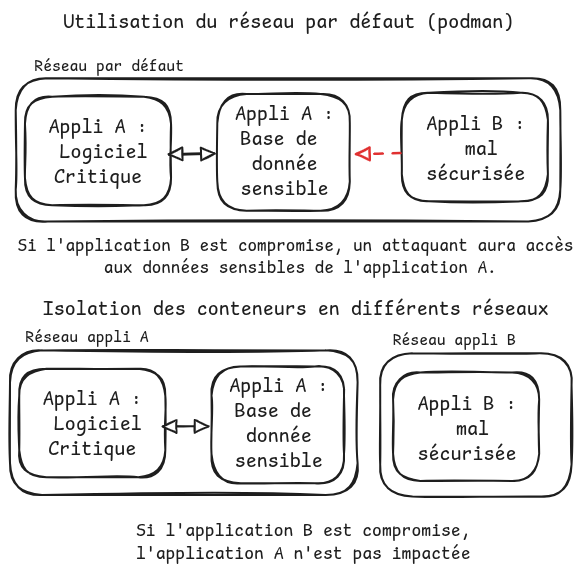
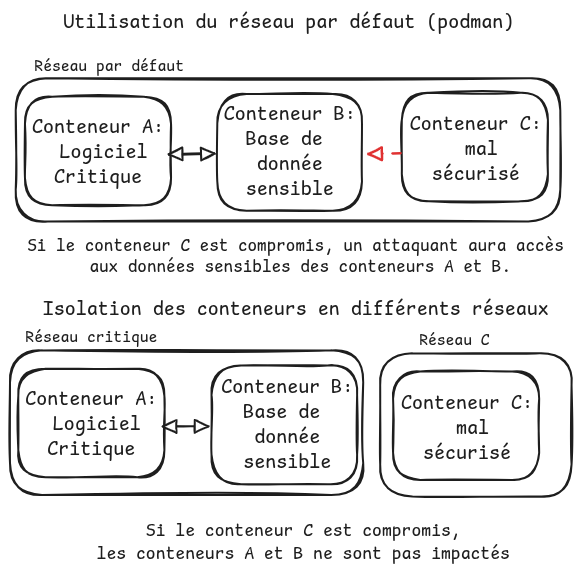
Updated TD3 (#5)
* Updated TD3 to add `docker-compose` notions
* Updated website code given advices from @PetchouDev

diff --git a/TD3-multi-containers/website/flask_minimal.py b/TD3-multi-containers/website/flask_minimal.py
@@ -7,19 +7,30 @@ import psycopg2
 app = Flask(__name__)
 
 app.logger.info("Connecting to postgres database")
-conn = psycopg2.connect(host="postgres",
-                        database="database",
+
+conn : psycopg2.connection = None
+
+
+def get_db_connection() -> psycopg2.connection:
+    global conn
+
+    conn = psycopg2.connect(host="postgres",
+                        database="postgres",
                         user="postgres",
                         password="admin")
+    
+    with conn.cursor() as cur:
+        # Create table stats if it does not exist
+        cur.execute('CREATE TABLE IF NOT EXISTS stats (id serial PRIMARY KEY,'
+                                        'username varchar (150) NOT NULL,'
+                                        'nb_query integer  NOT NULL)'
+                                        )
+        cur.execute("ALTER TABLE stats ADD CONSTRAINT stats_username_unique UNIQUE (username);")
+        cur.close()
+    conn.commit()
 
-cur = conn.cursor()
+    return conn
 
-# Create database if it does not exist
-cur.execute('CREATE TABLE stats (id serial PRIMARY KEY,'
-                                 'username varchar (150) NOT NULL,'
-                                 'nb_query integer  NOT NULL)'
-                                 )
-conn.commit()
 
 # Index page : just display a form asking for minecraft username
 @app.route("/")
@@ -31,6 +42,7 @@ def index():
                 <input type="text" id="fname" name="username"><br>
                 <input type="submit">
             </form>
+            <p><a href="admin_view"> Admin page </a></p>
             """
 
 # Display skin page : get the player head given it's username, and store the queried names in queried_name.json
@@ -65,18 +77,50 @@ def display_skin():
 # Display statistics about the number of username queried
 @app.route("/admin_view")
 def admin_view():
-    cur.execute('SELECT * FROM stats;')
-    stats = cur.fetchall()
+    conn = get_db_connection()
+    stats = None
+    with conn.cursor() as cur:
+        cur.execute('SELECT * FROM stats;')
+        stats = cur.fetchall()
     html_page = """<h2>Statistics for this website</h2>
                     <p>Number of query for each username</p>
                     <ul>
                 """
     for stat in stats:
-        html_page += f"<li>{stat[0]} : {stat[1]} queries</li>"
+        html_page += f"<li>{stat[1]} : {stat[2]} queries</li>"
     html_page += "</ul>"
     return html_page
 
 # Update the count of username
 def update_query_count(username) -> int:
-    cur.execute(f"""Update stats set nb_query = nb_query, 0 + 1 where username={username}""")
+    # Discard empty usernames
+    username = (username or "").strip()
+    if not username:
+        return 0
+
+    conn = get_db_connection()
+    stat_row = []
+    with conn.cursor() as cur:
+        cur.execute(
+            """
+            INSERT INTO stats (username, nb_query)
+            VALUES (%s, 1)
+            ON CONFLICT (username)
+            DO UPDATE SET nb_query = stats.nb_query + 1
+            RETURNING nb_query;
+            """,
+            (username,)
+        )
+        if cur.rowcount == 0:
+            print(f"[ERROR] No entries for username just updated : {username}")
+            return 0
+        if cur.rowcount > 1:
+            print(f"[WARNING] {cur.rowcount} entries for the same username : {username}")
+        stat_row = cur.fetch_one()
+
     conn.commit()
+    # Return query count
+    # 
+    # Stats
+    # ID username query_count
+    return stat_row[2]

diff --git a/TD3-multi-containers/README.md b/TD3-multi-containers/README.md
@@ -8,7 +8,7 @@ Pour cela, nous décidons d'utiliser une base de donnée qui supporte les accès
 
 L'architecture finale sera la suivante :
 
-![Architecture finale](../figures/multi-container.png)
+![Architecture finale](../figures/website_v3_archi.png)
 
 Avant de vous lancer, nous allons voir comment faire en sorte que deux conteneurs puissent communiquer ensemble.
 
@@ -24,11 +24,16 @@ Pour comprendre comment fonctionne le réseau, nous utiliserons la troisième ve
 
 Ensuite, nous allons tenter de ping un conteneur depuis un autre : 
 
-- Créer un conteneur de `website:v3`, en mode interactif nommé A : `podman run -it --rm --name A website:v3`
-- Dans un autre terminal, créer un autre conteneur nommé B : `podman run -it --rm --name B website:v3`
+- Créer un conteneur de `website:v3`, en mode interactif nommé A, dans lequel vous exécuterez la commande bash : `podman run -it --rm --name A website:v3 bash`
+- Dans un autre terminal, créer un autre conteneur nommé B : `podman run -it --rm --name B website:v3 bash`
 
 Vous obtiendrez alors un terminal à l'intérieur du conteneur A et du conteneur B.
-À partir de là, récuperer les addresses IP des deux conteneurs. Quelles sont vos conclusions...
+
+:question: À quoi correspondent chacune des options que vous avez indiqué à `podman run` ? 
+
+Afficher la configuration IP des deux conteneurs. 
+
+:question: À partir de cette configuration que pouvez-vous conclure ? 
 
 ## Mise en réseau de conteneurs
 
@@ -36,46 +41,147 @@ Vous obtiendrez alors un terminal à l'intérieur du conteneur A et du conteneur
 >
 > **Mise en réseau de conteneurs**
 >
-> Les conteneurs ont besoin d'accéder à internet, ils possèdent donc une adresse réseau qui est routée vers l'extérieur. Mais pour des raisons d'isolation le routage vers un conteneur n'existe pas.
+> À leur création, les conteneurs rejoignent un réseau pour obtenir un accès Internet. Ils peuvent effectuer des connexions sortantes (accès à Internet), mais les connexions entrantes (de l'hôte vers le conteneur) sont bloquées. 
 >
-> Pour cela vous devez inscrire votre conteneur dans un réseau spécifique géré par podman. Les commandes `podman network ls` `podman network inspect <network_name>` vous permet de voir leur description. 
+> :question: Quel paramètre, utilisé lors de la création du conteneur, permet d'autoriser les connexions entrantes sur un port spécifique ?
+>
+> Au démarrage de podman, il n'existe qu'un seul réseau, nommé `podman`. Par défaut, c'est le réseau que rejoindront les conteneurs à leur création.
+>
+> Podman laisse à l'utilisateur la possibilité de créer et de gérer de nouveaux réseaux :
+> - `podman network ls` : Lister les réseaux existants
+> - `podman network inspect <network_name>` : Inspecter un réseau
+> - `podman network create <network_name>` : Créer un réseau
 > 
+> Pour ajouter un conteneur à un réseau nommé `network_name`, on peut utiliser l'option `--network network_name` à la création du conteneur.
+>
+
+- Lister les réseaux existants, et inspecter le réseau par défaut, nommé `podman`
+
+:question: Que pouvez-vous constater sur la configuration par défaut ?
+
+> [!NOTE] 
+>
+> **Pourquoi isoler les réseaux ?**
+>
+> Si tous les conteneurs partagent le même réseau, cela présente risque de sécurité. En effet, si un attaquant arrive à prendre le contrôle d'un conteneur dans le réseau, il peut :
+> - Observer tout le trafic réseau
+> - Interagir avec des conteneurs critiques
+>
+> Ce scénario est illustré ci-dessous :
 > 
-:question: Que pouvez-vous constater sur la configuration actuelle ?
+> ![Isolation réseau](../figures/isolation_reseau.png)
+>
+> 
+
+Pour prendre en main ces problématique réseau, nous allons mettre en place l'isolation de deux conteneurs A et B du réseau de base, `podman`
 
 - Arrêter les conteneurs A et B (Utiliser Ctrl-D ou taper la commande `exit`) 
+- Créer un nouveau réseau `safe-net`
 - Dans deux terminaux différents, créer deux conteneurs A et B, qui se connectent au réseau disponible  (paramètre `--network`) :
-    - `docker run -it --network <nom> --rm --name A website:v3`.
-    - `docker run -it --network <nom> --rm --name B website:v3`
-- Dans un autre terminal, créer un conteneur C, qui n'est pas connecté à `website-net` :  `docker run -it --rm --name C website:v3`
-- Afficher les ips de chacun des conteneurs. On observe que A et B sont sur les mêmes sous-réseaux, et C sur un autre.
+    - `docker run -it --network <nom> --rm --name A website:v3 bash`.
+    - `docker run -it --network <nom> --rm --name B website:v3 bash`
+- Dans un autre terminal, créer un conteneur C, qui n'est pas connecté à `website-net` :  `docker run -it --rm --name C website:v3 bash`
+
+- Inspecter le nouveau réseau `safe-net`
+
+:question: Quelles différences pouvez-vous faire entre le réseau de base, et votre réseau `safe-net` ? Qu'est-ce que cela implique ?
+
+:question: Vous avez nommé vos deux conteneurs A et B, sauriez-vous retrouver ces noms dans le conteneur ? Histoire de savoir comment je m'appelle ?
 
 Vérifier que :
 - Le conteneur A peut pinguer le conteneur B via son ip
 - Le conteneur C ne peut accéder ni à A, ni à B
+- Que le conteneur A peut pinguer le conteneur B via son ID (accessible via `podman ps`)
+- Que le conteneur A peut pinguer le conteneur B via le nom du conteneur : `ping B`
 
-> En effet, si tous les conteneurs partagent le même réseau, cela présente une surface d'attaque de sécurité.
+## Utiliser de multiples conteneurs avec Podman
+
+Maintenant que vous savez mettre en réseau deux conteneurs, il est temps de relier notre site à une base de donnée postgres.
+
+Le site essaiera de se connecter à la base de donnée avec ces paramètres :
+- Adresse de la BDD : `postgres`
+- Mot de passe : `admin`
+
+> [!NOTE]
+> 
+> **Variables d'environnement**
+> 
+> Il est courant de passer des variables d'environnement à un conteneur pour le configurer : choisir entre le mode débug et le mode production, définir l'adresse sur laquelle le serveur devra écouter.
+> 
+> Pour cela, on peut utiliser l'option `-e` de la commande `docker run` 
+> 
+> Par exemple, postgres demande à l'utilisateur de définir la variable d'environnement `POSTGRES_PASSWORD` au lancement de la base de donnée
+
+Démarrer deux conteneurs à partir des images suivantes : `postgres` (notre base de donnée) et `website` (notre site). Faire en sorte que notre site puisse se connecter à la base de donnée postgres.
+
+:question: Comment vérifier que notre conteneur `website` soit sur le même réseau que le conteneur `postgres` ? Comment vérifier qu'il est possible d'accéder au conteneur via le nom de domaine `postgres` ? 
+
+:question: Est-ce que le réseau par défaut (`podman`) permettrait d'accéder à l'adresse `postgres` ? Pourquoi ?
+
+## Automatiser la gestion de multiples conteneurs avec podman compose
+
+Démarrer de multiples conteneurs à la main comme nous l'avons fait est source d'erreurs et est très chronophage. C'est pourquoi, pour tester les interactions entre divers conteneurs, on utilise des outils comme `podman compose`.
+
+> [!NOTE]
+> 
+> **Podman compose**
 >
-> ![Isolation réseau](../figures/isolation_reseau.png) 
+> L'outil `podman compose` permet de lancer et paramétrer plusieurs conteneurs à partir d'un fichier descriptif, nommé `compose.yaml`
+>
+> Voici un exemple de `compose.yaml`
+> 
+>```yaml
+>services:
+>  website:
+>    image: website:v3
+>    ports:
+>      - "5010:5000"
+>    depends_on:
+>      - postgres
+>
+>  postgres:
+>    image: postgres
+>    environment:
+>      POSTGRES_PASSWORD: admin
+>    volumes:
+>      - db_data:/var/lib/postgresql/
+>
+>volumes:
+>  db_data:
+>```
+>
+> Notre `compose.yaml` est séparé en deux sections : `services` et `volumes`.
+> 
+> La première section, `services`, permet de définir les conteneurs qui seront lancés, ansi que leur configuration. Ici, on retrouve nos deux conteneurs et leur configuration (redirection de port, variable d'environnement). En plus des paramètres évoqués précédemment dans le sujet, on indique via l'argument ` depends_on:\n - postgres` que le conteneur website doit être lancé après le conteneur postgres. :warning: Attention, il ne faut pas confondre les services podman-compose avec les services dont nous parlerons dans les TDs Kubernetes.
+> 
+> La seconde section, `volumes`, définit les volumes qui seront utilisés dans le déploiement. Ici, on définit le volume `db_data`, qui est utilisé par le conteneur `postgres`
+> 
+> Ce podman-compose est assez minimal. En réalité, il existe bien plus de paramètres présentés dans la [documentation des compose file](https://docs.docker.com/reference/compose-file/).
 
-:question: Vous avez nommé vos deux conteneurs A et B, sauriez-vous retrouver ces noms dans le conteneur ? Histoire de savoir comment je m'appelle ?
+Démarrons notre déploiement à l'aide de podman compose :
 
-A ce stade, vous pouvez donc pinguer le conteneur A et le conteneur B par leur addresse IP. Mais pas leur nom.
+- `podman compose up`
 
-> Le réseau par défaut de podman n'offre pas un support DNS (`dns_enabled: false`), et ce dernier nous serait utile pour accéder aux conteneurs par le nom, plutôt que leurs IPs.
+:question: Comment sont nommés les conteneurs créés ? À quel réseau sont-il attachés ?
 
-Si vous créez un nouveau réseau `website-net`, vous pourrez constater que sa valeur dns_enabled est true. 
+Supprimer le déploiement
 
-Notre sous réseau `website-net` fourni un DNS par défaut. Verifier qu'il est désormais possible :
-- Que le conteneur A accède au conteneur B via son ID (accessible via `podman ps`)
-- Que le conteneur A accède au conteneur B via le nom du conteneur : `ping B`
+- `podman compose down`
 
-# TODO 
+Notre site est presque prêt ! Il lui manque un dernier élément essentiel : des sauvegardes de la base de donnée. 
 
-- [ ] Ajouter liaison Postgresql
-- [ ] Ajouter docker-compose
-- [ ] Demander extensions à 4 -> Connecter le frontend au voisins
+Pour cela, on ajoutera un conteneur nommé db-utils, basé sur l'image postgres. Ce conteneur n’expose aucun port, mais doit pouvoir :
+- se connecter à la base de données postgres pour faire un backup
+- utiliser un volume différent de `db_data` pour stocker les résultats
+- démarrer après la base de données
 
+Pour éviter l'exécution de la commande de base du conteneur `postgres`, qui démarre une base de donnée, on écrasera la commande de lancement avec l'argument `command: ["sh", "-c", "pg_dump > /backup/backup.sql"]`. Au préalable, on aura défini différentes variables d'environnement :
+
+- PGPASSWORD = admin
+- PGUSER = postgres
+- PGHOST = postgres
+
+À votre tour de jouer ! Ajoutez le conteneur db-utils au `compose.yaml`
 
 # Liste des commandes utilisées
 ```
